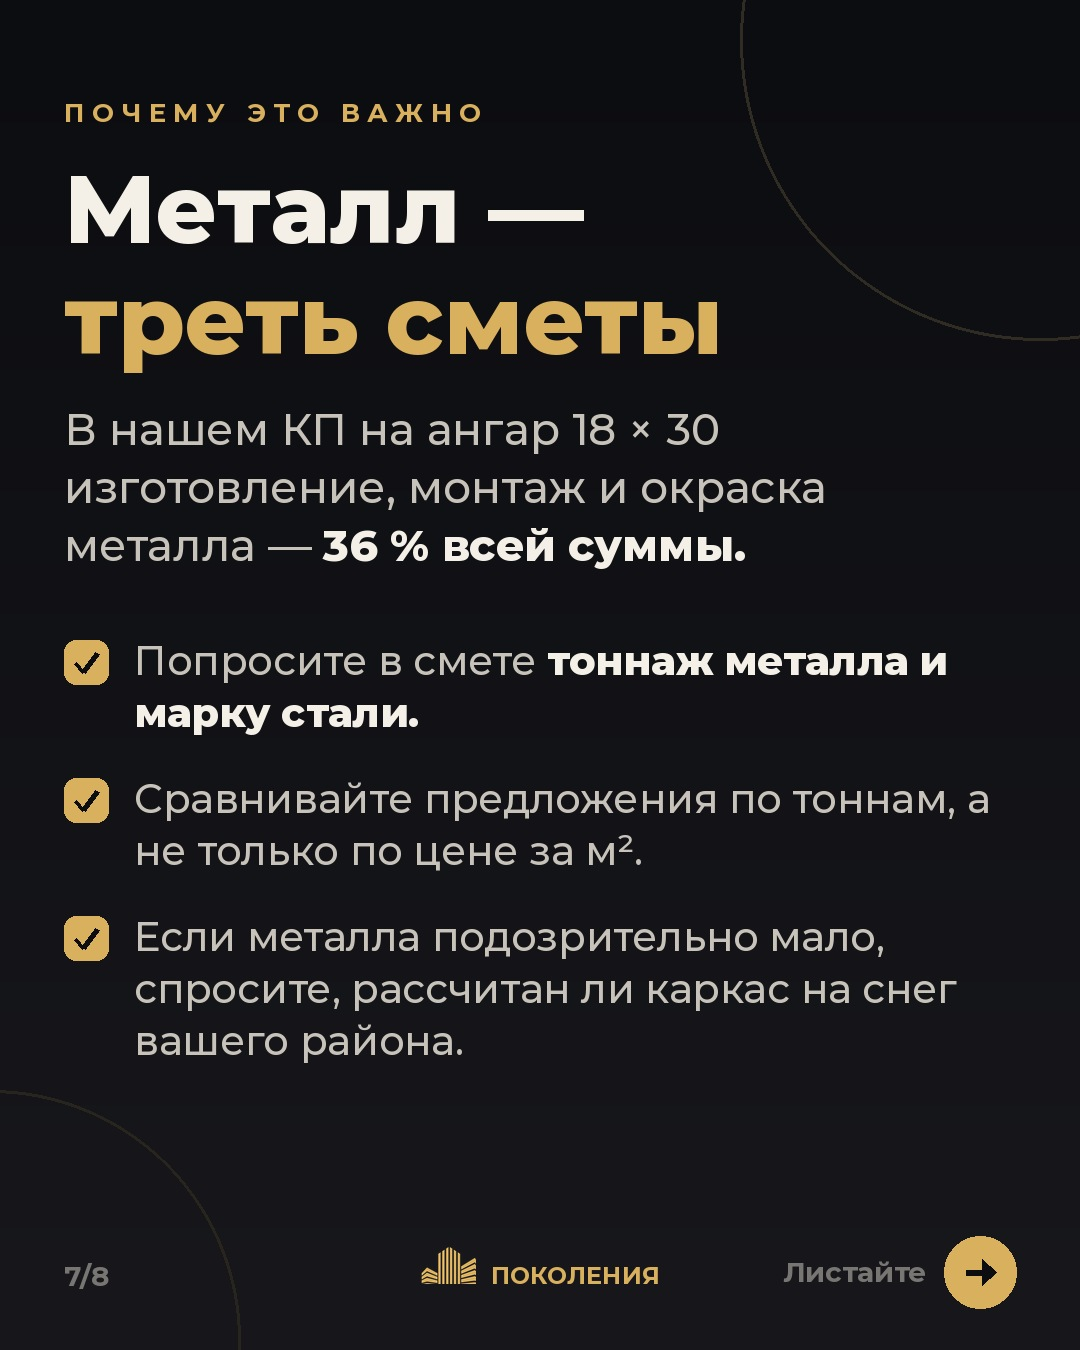
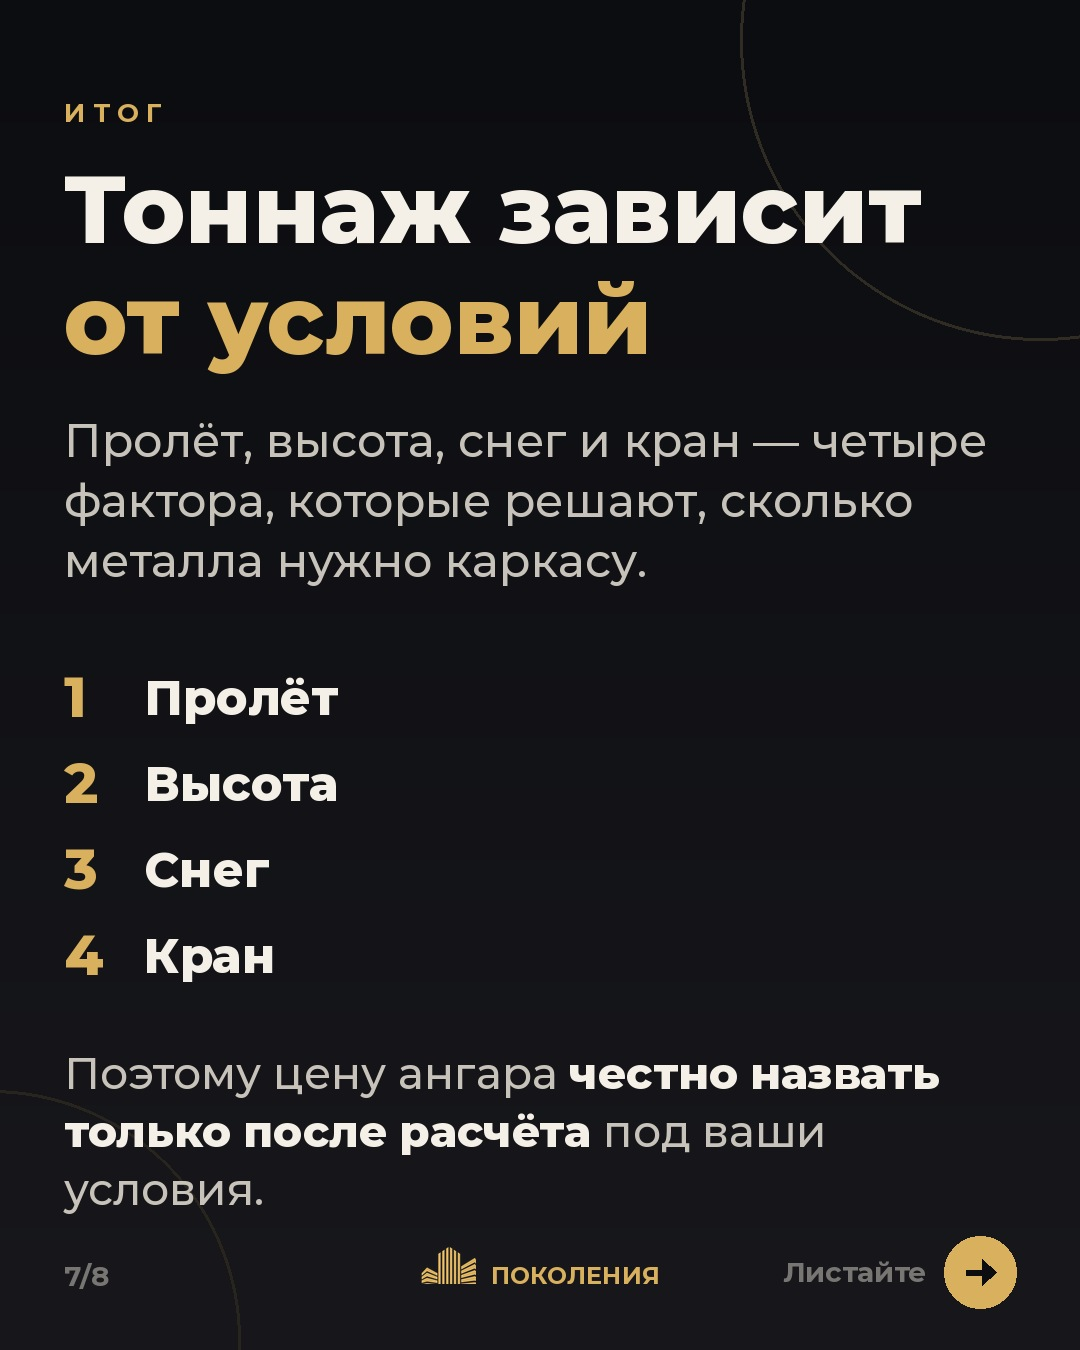
Карусель «28 тонн или 84?»: новый 7-й слайд (вариант 3), подпись
Claude-Session: https://claude.ai/code/session_019hh1tyQfnmNP9Rdxadr1Bk

diff --git a/brand/carousel_metall.py b/brand/carousel_metall.py
@@ -51,12 +51,12 @@ def factor(n,eyebrow,title,lines,tip):
 
 def s7():
     im=background(); d=ImageDraw.Draw(im)
-    y=head(d,'П О Ч Е М У   Э Т О   В А Ж Н О',[('Металл —',WHT),('треть сметы',GOLD)],96)
-    y=rich(d,X0,y+30,[('В нашем КП на ангар 18 × 30 изготовление, монтаж и окраска металла —',0),('36 % всей суммы.',1)],44,W-2*X0)+60
-    for t in [[('Попросите в смете',0),('тоннаж металла и марку стали.',1)],
-              [('Сравнивайте предложения по тоннам, а не только по цене за м².',0)],
-              [('Если металла подозрительно мало, спросите, рассчитан ли каркас на снег вашего района.',0)]]:
-        mark(d,X0,y+4,True); y=max(rich(d,X0+70,y,t,40,W-2*X0-70),y+60)+34
+    y=head(d,'И Т О Г',[('Тоннаж зависит',WHT),('от условий',GOLD)],96)
+    y=rich(d,X0,y+40,[('Пролёт, высота, снег и кран — четыре фактора, которые решают, сколько металла нужно каркасу.',0)],46,W-2*X0)+70
+    for k,t in enumerate(['Пролёт','Высота','Снег','Кран'],1):
+        d.text((X0,y),f'{k}',font=F(56),fill=GOLD); d.text((X0+80,y+6),t,font=F(48),fill=WHT); y+=86
+    y+=40
+    rich(d,X0,y,[('Поэтому цену ангара',0),('честно назвать только после расчёта',1),('под ваши условия.',0)],44,W-2*X0)
     footer(im,7); return im
 
 def s8():
